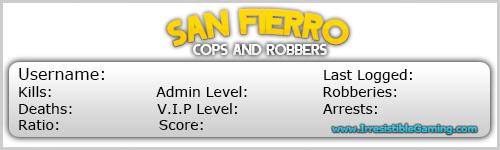
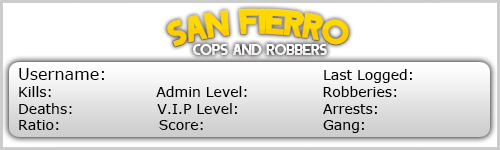
show gang in signature

Changed region(s): [[0.63, 0.8, 0.96, 0.9067]]

diff --git a/app/controllers/SignatureController.php b/app/controllers/SignatureController.php
@@ -12,7 +12,7 @@ class SignatureController extends BaseController {
             return Response::make('This user could not be found.', 404);
         }
 
-        $info = !is_numeric($id) ? User::where('NAME', '=', trim(strtolower(strip_tags($id))))->first() : User::find($id);
+        $info = !is_numeric($id) ? User::where('NAME', '=', trim(strtolower(strip_tags($id))))->with('gang')->first() : User::find($id);
 
         if($info == null){
             return Response::make('This user could not be found.', 404);
@@ -72,6 +72,16 @@ class SignatureController extends BaseController {
 
         imagettftext($image, 10, 0, 401, 97, $text, $font, $info->ROBBERIES);
         imagettftext($image, 10, 0, 381, 114, $text, $font, $info->ARRESTS);
+
+        if (!is_null($info->gang)) {
+            $gang = $info->gang->NAME;
+            $gang_color = $info->gang->COLOR;
+            $text = imagecolorallocate($image, ($gang_color >> 24) & 0x000000FF, ($gang_color >> 16) & 0x000000FF,  ($gang_color >> 8) & 0x000000FF);
+        } else {
+            $gang = "None";
+        }
+
+        imagettftext($image, 7, 0, 369, 130, $text, $font, $gang);
 
         imagecopyresampled($backg, $image, 0, 0, 0,  0, 500, 150, 500, 150);
 
